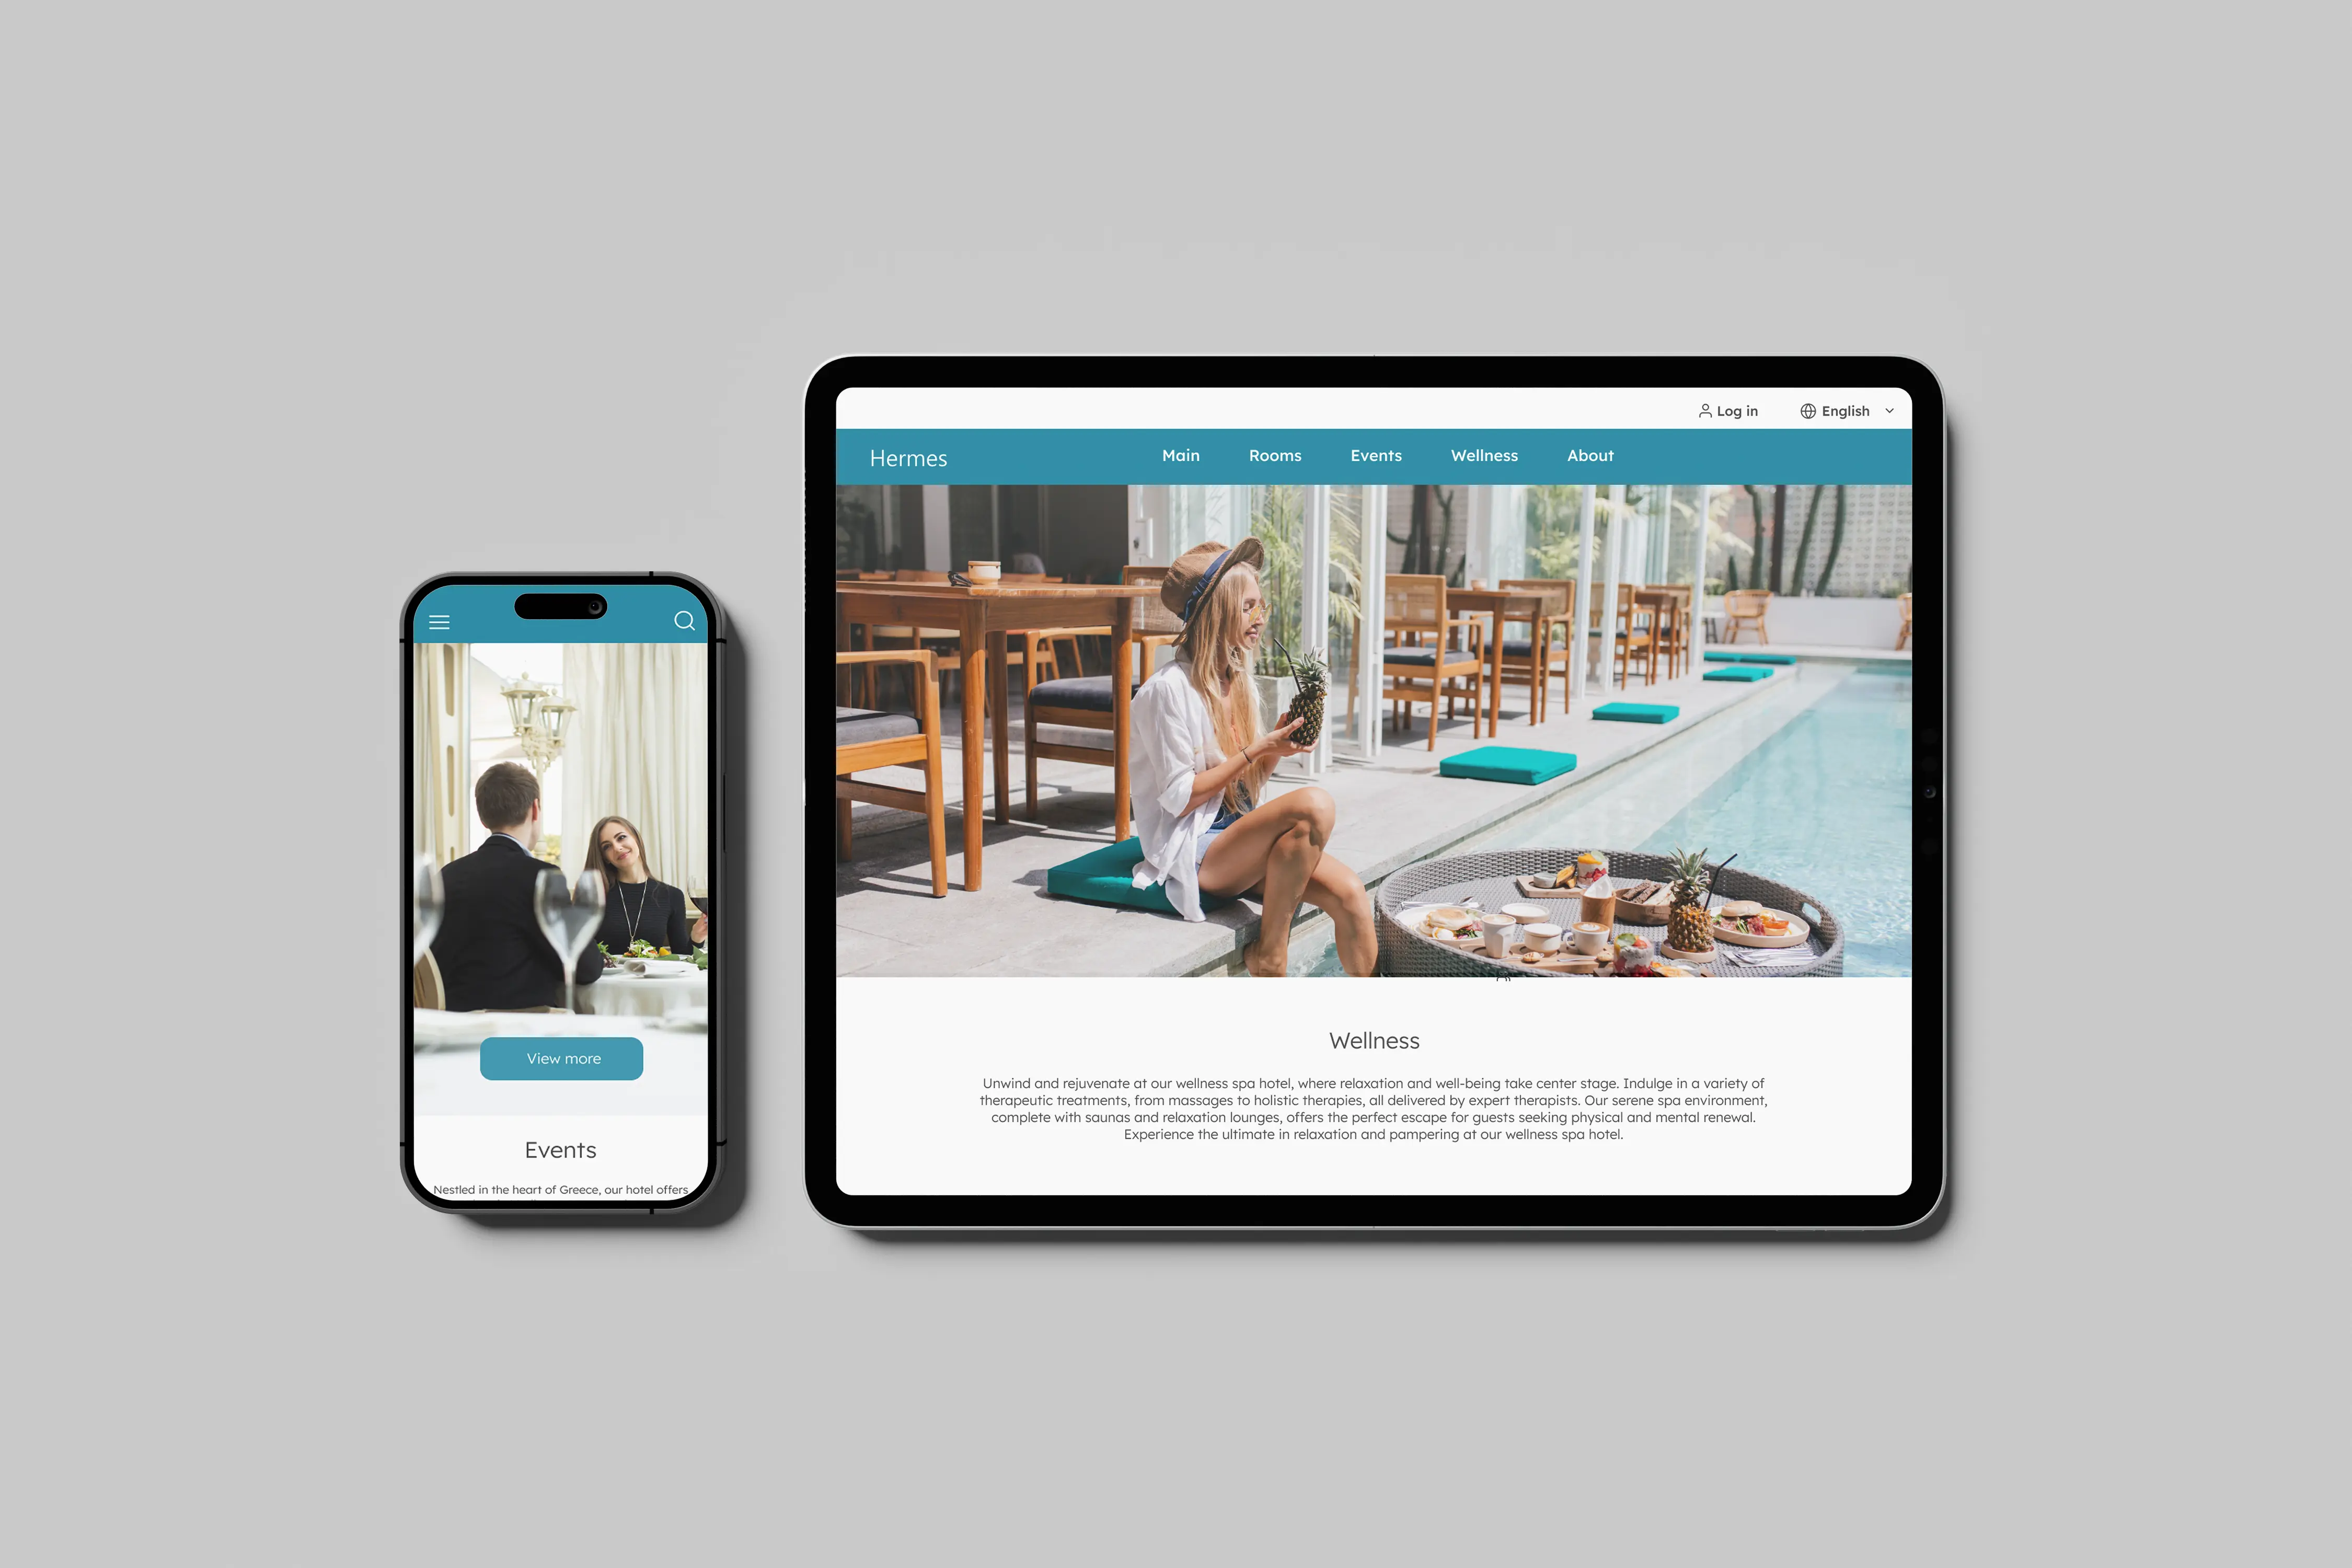
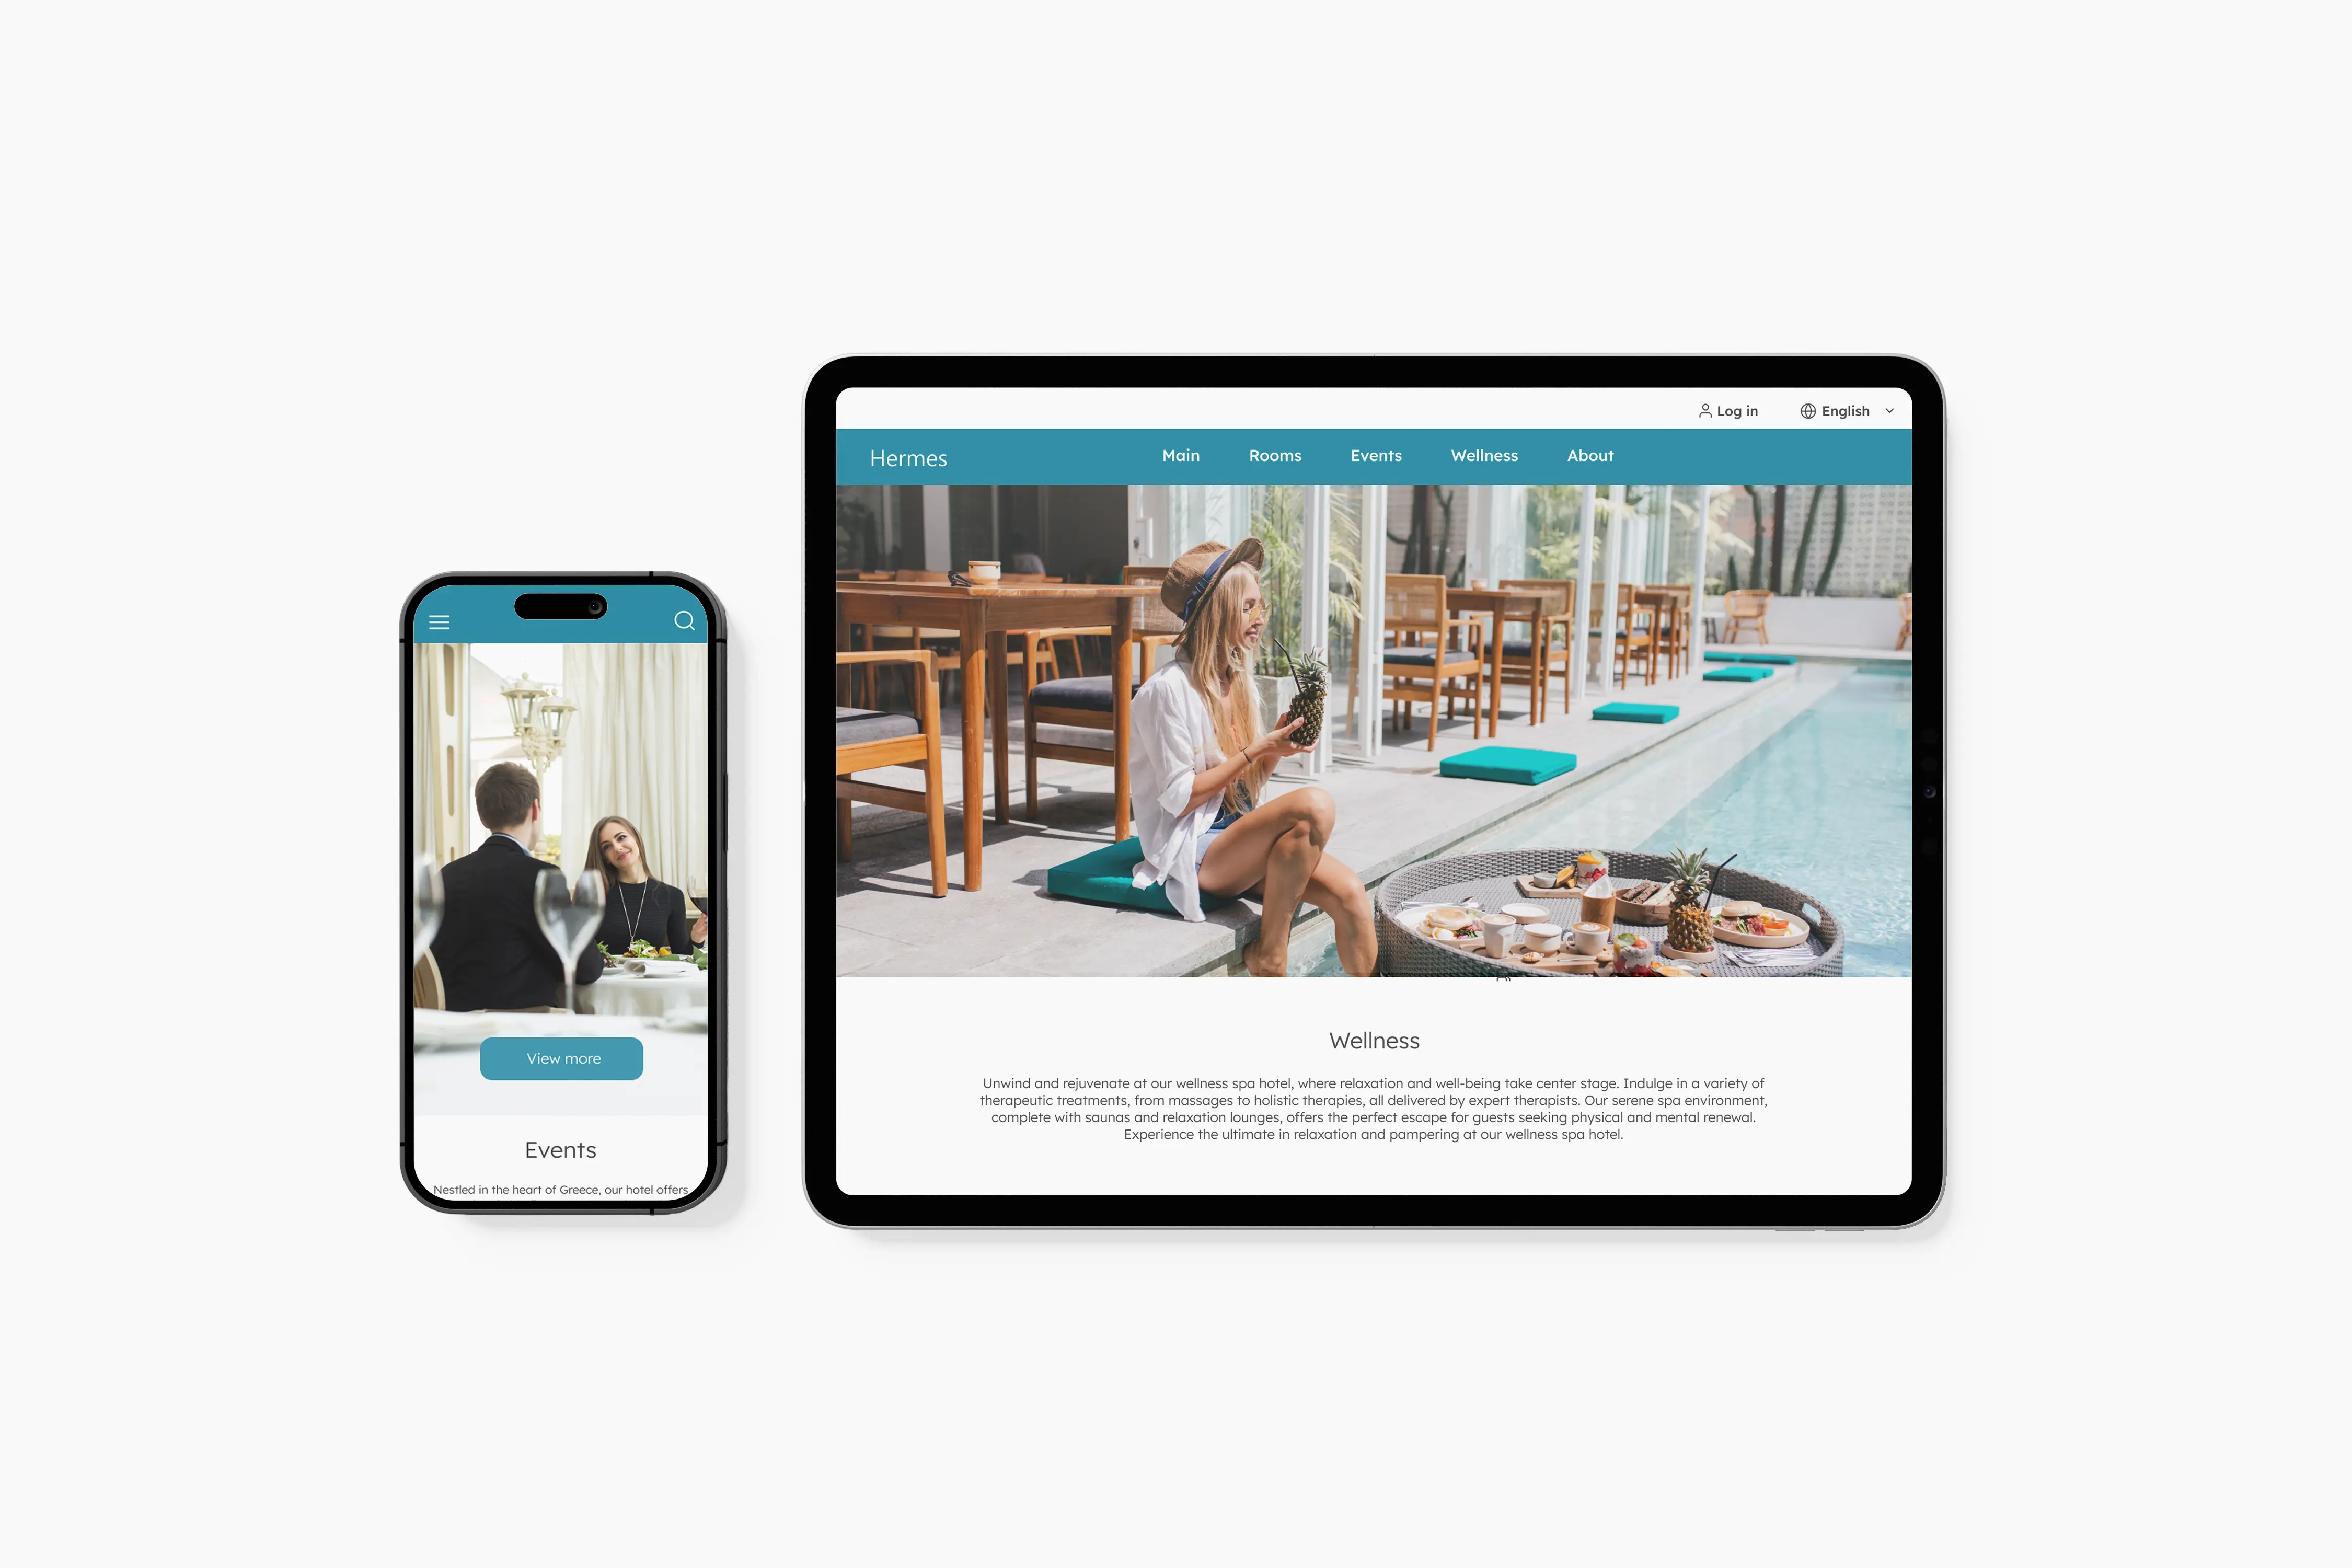
herm mt wn

diff --git a/src/data/Projects.js b/src/data/Projects.js
@@ -60,16 +60,16 @@ import ElectroHaus2 from '../assets/images/Web/Galeria/ElectroHaus2.webp';
 import ElectroHaus3 from '../assets/images/Web/Galeria/ElectroHaus3.webp';
 
 import MagicTravel1 from '../assets/images/Web/Galeria/MagicTravel1.webp';
-import MagicTravel2 from '../assets/images/Web/Galeria/MagicTravel1.webp';
-import MagicTravel3 from '../assets/images/Web/Galeria/MagicTravel1.webp';
+import MagicTravel2 from '../assets/images/Web/Galeria/MagicTravel2.webp';
+import MagicTravel3 from '../assets/images/Web/Galeria/MagicTravel3.webp';
 
 import Hermes1 from '../assets/images/Web/Galeria/Hermes1.webp';
-import Hermes2 from '../assets/images/Web/Galeria/Hermes1.webp';
-import Hermes3 from '../assets/images/Web/Galeria/Hermes1.webp';
+import Hermes2 from '../assets/images/Web/Galeria/Hermes2.webp';
+import Hermes3 from '../assets/images/Web/Galeria/Hermes3.webp';
 
 import WineNight1 from '../assets/images/Web/Galeria/WineNight1.webp';
-import WineNight2 from '../assets/images/Web/Galeria/WineNight1.webp';
-import WineNight3 from '../assets/images/Web/Galeria/WineNight1.webp';
+import WineNight2 from '../assets/images/Web/Galeria/WineNight2.webp';
+import WineNight3 from '../assets/images/Web/Galeria/WineNight3.webp';
 
 // Packaging & Editorial Gallery
 import Silkylatte1 from '../assets/images/Packaging/Galeria/Silkylatte1.webp';